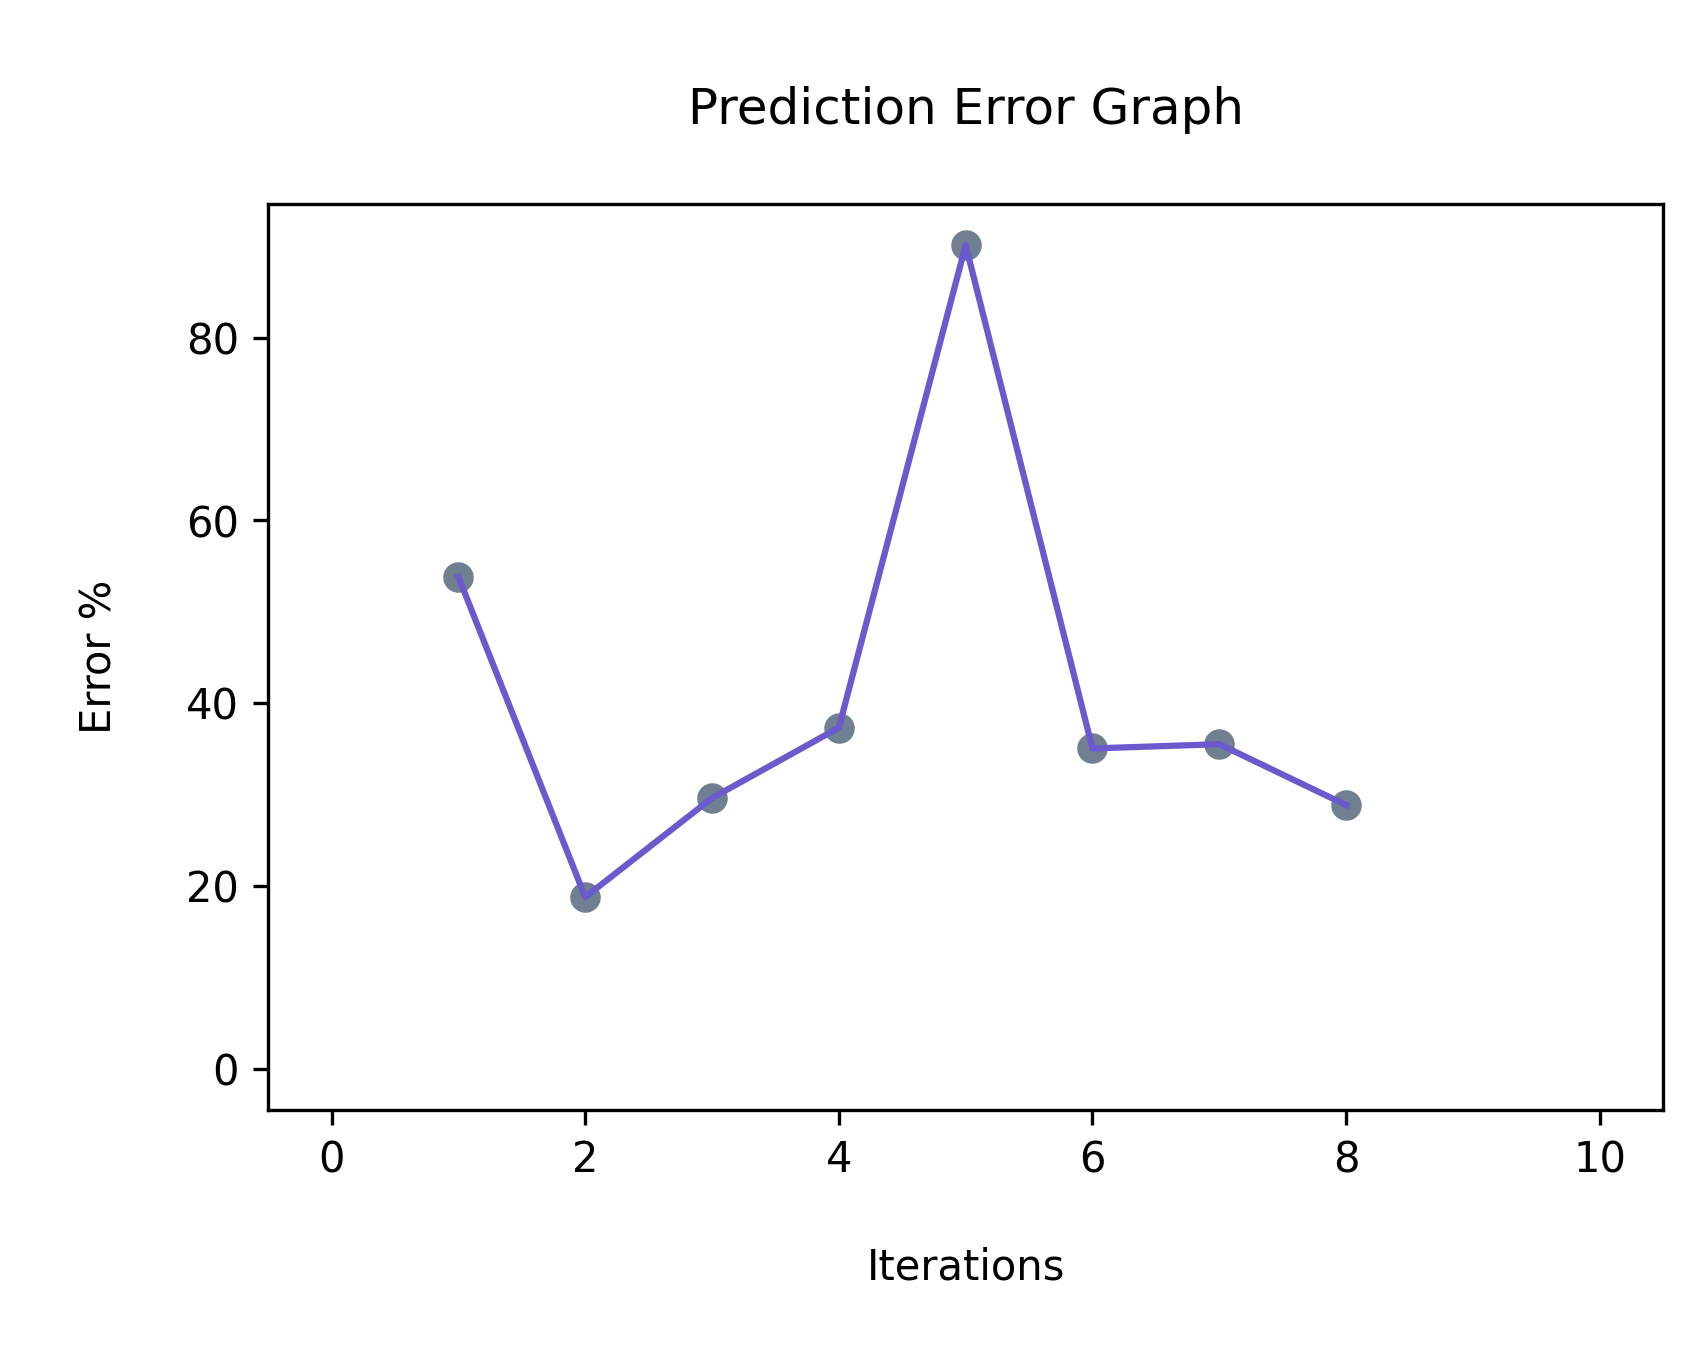
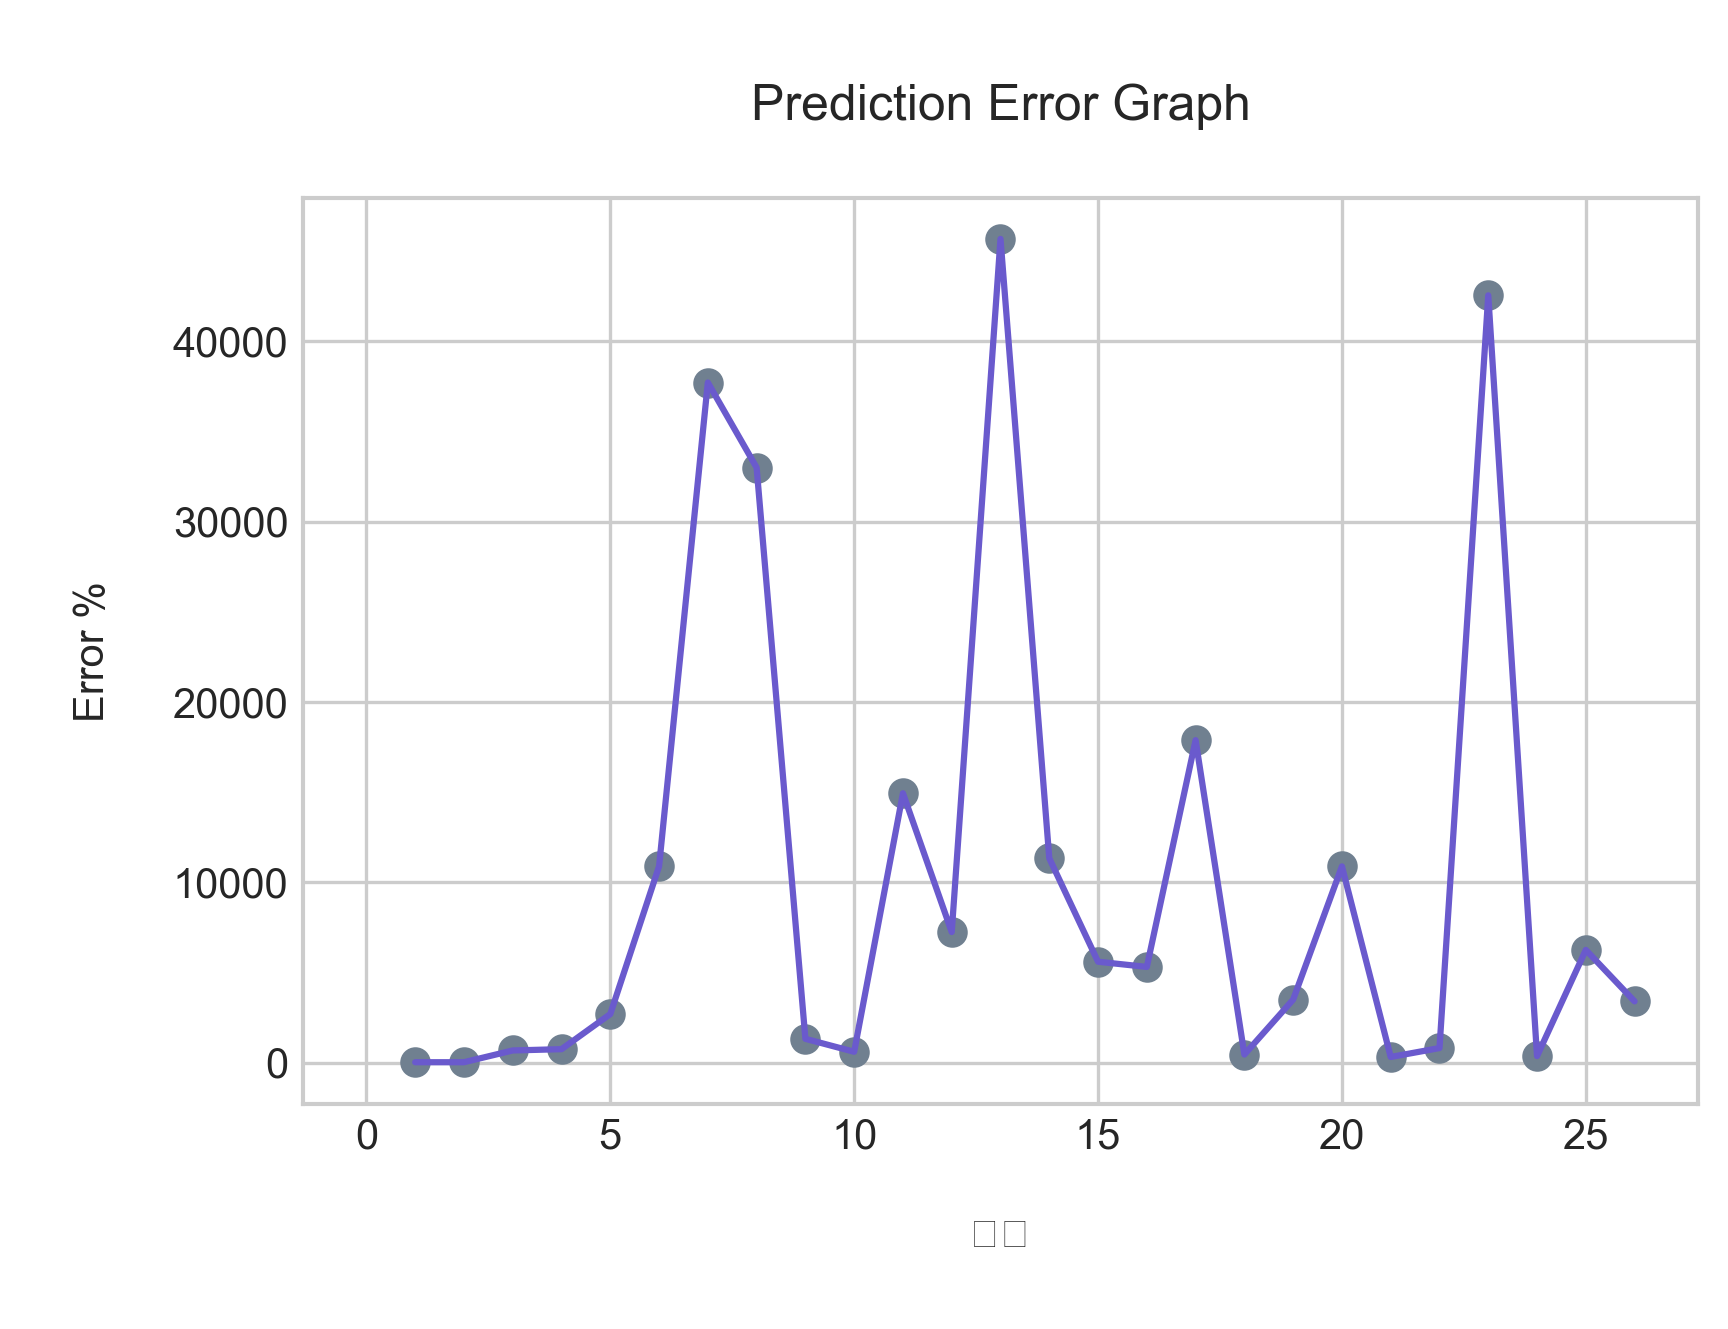
IMPROVE: plot font and style

diff --git a/dataWidget.py b/dataWidget.py
@@ -287,7 +287,10 @@ class Window(tk.Frame):
             self.status.configure(text='正常')
             self.saveBtn.pack_forget()
         ...
-    
+        
+    def refresh(self):
+        ...
+        
     def loadModel(self, event=1):
         
         self.modelName = self.combo.get()
@@ -404,6 +407,7 @@ class Window(tk.Frame):
                 cell.configure(state='disabled')
         
     def saveData(self, event=1):
+        self.saveBtn.pack_forget()
         entries = [[e.get() for e in row] for row in self.entries]
         x, ypred, y, err = {},{},{},{}
         
@@ -441,6 +445,7 @@ class Window(tk.Frame):
         os.remove(path / 'output' / 'output.csv')
         self.update_idletasks()
         self.status.configure(text='保存成功，已重新建模！')
+        
         
     def exportData(self, file=None, event=1):
         #timestamp = ('').join(str(time.time()).split('.'))
@@ -508,8 +513,25 @@ class Window(tk.Frame):
                 self.status.configure(text='错误：某行的列数不同与其它的！数据格式必须满足每行列数相同。')
                 return
          
-        typeOrder = ['进水','机器预测出水', '专家反馈出水','误差%']
-        acceptedTypes = ['进水', '专家反馈出水']
+        #typeOrder = ['进水','机器预测出水', '专家反馈出水','误差%']
+        typeOrder = [] 
+        #programmatically read-off the typeOrder from csv directly
+        for i, row in enumerate(rawdata):
+            if row:
+                if i > 0:
+                    ind = 1
+                    if int(row[0]) == ind:
+                        typeOrder.append(row[1])
+                    else:
+                        break
+                            
+                            
+            else:
+                #empty row
+                pass
+        
+        
+        acceptedTypes = ['进水', '专家反馈出水', '出水']
         correct = typeOrder[0]
         for i, row in enumerate(rawdata):
             if row:
@@ -568,7 +590,7 @@ class Window(tk.Frame):
                 x = dict(zip(features, [float(v) for v in row[2:]]))
                 #print(j, '进水', x)
                 X.append(x)
-            elif row[1] == '专家反馈出水':
+            elif row[1] == '专家反馈出水' or row[1] == '出水':
                 j = row[0]
                 y = dict(zip(features, [float(v) for v in row[2:]]))
                 #print(j,'出水',y)
@@ -600,7 +622,14 @@ class Window(tk.Frame):
             except IndexError:
                 #last row reached
                 Ypred, errorByRows, errorByCols = fsl.testing([X[i]],[Y[i]], self.modelName)
-            #print('errByCols', errorByCols)
+                
+            errorByCols = fsl.computeError(list(Ypred[0].values()), list(Y[i].values()))
+            
+            if i == 0:
+                print('Ypred',Ypred)
+                print('Yact',Y[i])
+                print('errByCols', errorByCols)
+                #return
             Ypreds.append(Ypred[0])
             errors.append(dict(zip(self.features, np.round(errorByCols,2))))
 
@@ -610,14 +639,14 @@ class Window(tk.Frame):
             ...
         #plot error graphs.
         trainedData = {'X':X, 'Y':Y, "e":e, 'Ypred': Ypreds, 'err': errors}
-        
+        plt.style.use('seaborn-whitegrid')
         plt.scatter(range(1,len(e)+1), e, s=40, marker='o', color='slategray')
         plt.scatter([0,10],[0,30], s=0, marker='o', color='slategray')
         plt.plot(range(1,len(e)+1), e, color='slateblue')
         plt.title('\nPrediction Error Graph\n')
         plt.xlabel('\nIterations\n')
         plt.ylabel('\nError %\n')
-        plt.savefig(path / 'models' / self.modelName / 'training.png' , dpi=300, bbox_inches = "tight")
+        plt.savefig(path / 'models' / self.modelName / 'training.png' , dpi=300, bbox_inches = "tight", transparent=True)
         plt.clf()
         
         #save data
@@ -625,7 +654,12 @@ class Window(tk.Frame):
         with open(path / 'models'/ self.modelName / dataFile, 'w') as f:
             f.write(json.dumps(trainedData))
         self.status.configure(text='导入成功！建模完成！')
+        #self.calcError()
         ...
+        
+        #refresh the dataTable by simply emulating a ComboboxSelected event.
+        self.combo.event_generate('<<ComboboxSelected>>')
+        
         
 if __name__ == "__main__":
     root = tk.Tk()

diff --git a/trainingWidget.py b/trainingWidget.py
@@ -15,6 +15,10 @@ import fewShotsLearning as fsl
 import wastewater as ww
 import numpy as np
 import matplotlib.pyplot as plt
+import matplotlib as mpl
+import matplotlib.font_manager as mfm
+#import seaborn as sns
+#import pandas as pd
 
 path = Path('./')
 APP_TITLE = '专家数据建模'
@@ -224,7 +228,7 @@ class Window(tk.Frame):
         self.maxwidth = 400
         self.maxheight = 400
         
-        self.canvas = tk.Canvas(self.RIGHT, height=self.maxheight, width=self.maxwidth, bg='white') 
+        self.canvas = tk.Canvas(self.RIGHT, height=self.maxheight, width=self.maxwidth)  #, bg='white'
         #self.img = ImageTk.PhotoImage(img)  
         #self.canvas.create_image(int((self.maxwidth-imgWidth)/2),int((self.maxheight-imgHeight)/2),anchor='nw',image=self.img)  
         self.canvas.pack(expand=True) 
@@ -472,14 +476,27 @@ class Window(tk.Frame):
         fsl.training(X,Y, self.modelName)
         
         #plot error graph
+        # dfx = []
+        # for i, v in enumerate(e,1):
+        #     dfx.append([i,v])
         
+        # df = pd.DataFrame(dfx, columns=["iteration", "prediction error"])
+        #sns.set() 
+        #sns.lineplot(x=df["iteration"], y=df["prediction error"], palette='muted')
+        #plt.show()
+        
+        font_path = "/usr/share/fonts/truetype/wqy/wqy-zenhei.ttc"
+        prop = mfm.FontProperties(fname=font_path)
+        #plt.rcParams['font.family']=font_name
+        plt.rcParams['axes.unicode_minus']=False # in case minus sign is shown as box
+        plt.style.use('seaborn-whitegrid')
         plt.scatter(range(1,len(e)+1), e, s=40, marker='o', color='slategray')
         plt.scatter([0,10],[0,30], s=0, marker='o', color='slategray')
         plt.plot(range(1,len(e)+1), e, color='slateblue')
         plt.title('\nPrediction Error Graph\n')
-        plt.xlabel('\nIterations\n')
+        plt.xlabel('\n回合\n', fontproperties=prop)
         plt.ylabel('\nError %\n')
-        plt.savefig(path / 'models' / self.modelName / 'training.png' , dpi=300, bbox_inches = "tight")
+        plt.savefig(path / 'models' / self.modelName / 'training.png' , dpi=300, bbox_inches = "tight", transparent=True)
         plt.clf()
         
         imgpath = str((path / 'models' / self.modelName  / 'training.png').absolute())
@@ -497,7 +514,13 @@ class Window(tk.Frame):
         self.roundLabel.configure(text='训练回合：' + str(len(e)))
         ...
         self.status.configure(text='提交成功！')
-            
+        
+        ################
+        #seaborn beautiful plot
+        
+        
+        
+        
 if __name__ == "__main__":
     root = tk.Tk()
     
